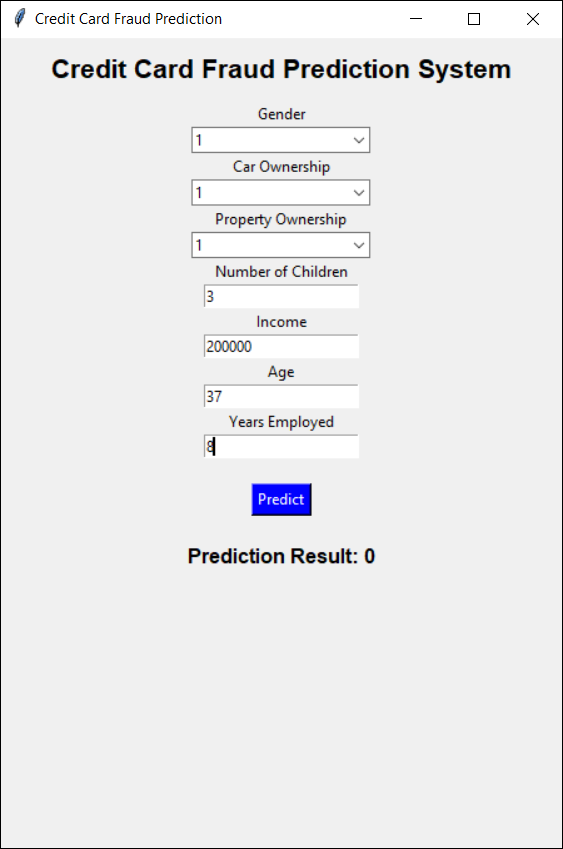
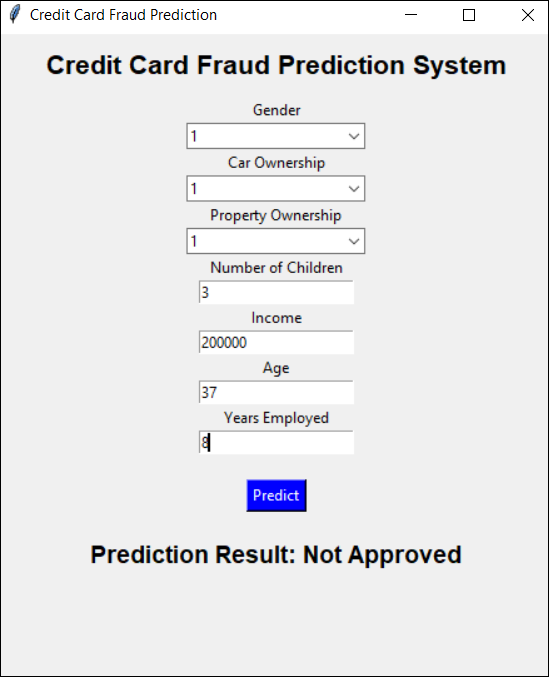
Final GUI prediction update and model improvements

diff --git a/notebooks/model.py b/notebooks/model.py
@@ -1,170 +1,103 @@
-import pandas as pd
+import tkinter as tk
+from tkinter import ttk
 import pickle
-import matplotlib.pyplot as plt
-import seaborn as sns
+import numpy as np
 
-from sklearn.model_selection import train_test_split
-from sklearn.neighbors import KNeighborsClassifier
-from sklearn.naive_bayes import GaussianNB
-from sklearn.preprocessing import LabelEncoder, StandardScaler
+# Load trained model
+model = pickle.load(open("models/model.pkl", "rb"))
 
-from sklearn.metrics import (
-    accuracy_score,
-    precision_score,
-    recall_score,
-    f1_score,
-    confusion_matrix,
-    classification_report
+# Create main window
+root = tk.Tk()
+root.title("Credit Card Fraud Prediction")
+root.geometry("450x650")
+
+# Title
+title = tk.Label(
+    root,
+    text="Credit Card Fraud Prediction System",
+    font=("Arial", 16, "bold")
 )
+title.pack(pady=10)
 
-# =========================
-# LOAD DATASET
-# =========================
-df = pd.read_csv("data/cleaned_data.csv")
+# Gender Dropdown
+tk.Label(root, text="Gender").pack()
+gender = ttk.Combobox(root, values=[0, 1])
+gender.pack()
 
-# Remove unnecessary columns
-df = df.drop(columns=["Unnamed: 0", "ID", "User"])
+# Car Dropdown
+tk.Label(root, text="Car Ownership").pack()
+car = ttk.Combobox(root, values=[0, 1])
+car.pack()
 
-# =========================
-# SELECT FEATURES
-# =========================
-X = df[[
-    "GENDER",
-    "CAR",
-    "REALITY",
-    "NO_OF_CHILD",
-    "INCOME",
-    "AGE",
-    "YEARS_EMPLOYED"
-]]
+# Property Dropdown
+tk.Label(root, text="Property Ownership").pack()
+reality = ttk.Combobox(root, values=[0, 1])
+reality.pack()
 
-# Target variable
-y = df["TARGET"]
+# Children Entry
+tk.Label(root, text="Number of Children").pack()
+children = tk.Entry(root)
+children.pack()
 
-# =========================
-# ENCODE CATEGORICAL DATA
-# =========================
-le_gender = LabelEncoder()
-le_car = LabelEncoder()
-le_reality = LabelEncoder()
+# Income Entry
+tk.Label(root, text="Income").pack()
+income = tk.Entry(root)
+income.pack()
 
-X["GENDER"] = le_gender.fit_transform(X["GENDER"])
-X["CAR"] = le_car.fit_transform(X["CAR"])
-X["REALITY"] = le_reality.fit_transform(X["REALITY"])
+# Age Entry
+tk.Label(root, text="Age").pack()
+age = tk.Entry(root)
+age.pack()
 
-# =========================
-# TRAIN TEST SPLIT
-# =========================
-X_train, X_test, y_train, y_test = train_test_split(
-    X,
-    y,
-    test_size=0.2,
-    random_state=42
+# Years Employed Entry
+tk.Label(root, text="Years Employed").pack()
+years = tk.Entry(root)
+years.pack()
+
+# Prediction Function
+def predict():
+    try:
+        values = [
+            float(gender.get()),
+            float(car.get()),
+            float(reality.get()),
+            float(children.get()),
+            float(income.get()),
+            float(age.get()),
+            float(years.get())
+        ]
+
+        prediction = model.predict([values])
+
+        if prediction[0] == 1:
+            result = "Approved"
+        else:
+            result = "Not Approved"
+
+        result_label.config(
+            text=f"Prediction Result: {result}"
+        )
+
+    except:
+        result_label.config(text="Invalid Input")
+
+# Predict Button
+predict_btn = tk.Button(
+    root,
+    text="Predict",
+    command=predict,
+    bg="blue",
+    fg="white"
 )
+predict_btn.pack(pady=20)
 
-print("Training Data Shape:", X_train.shape)
-print("Testing Data Shape:", X_test.shape)
+# Result Label
+result_label = tk.Label(
+    root,
+    text="",
+    font=("Arial", 14, "bold")
+)
+result_label.pack()
 
-# =========================
-# FEATURE SCALING
-# =========================
-scaler = StandardScaler()
-
-X_train_scaled = scaler.fit_transform(X_train)
-X_test_scaled = scaler.transform(X_test)
-
-# =====================================================
-# KNN MODEL
-# =====================================================
-print("\n========== KNN MODEL ==========")
-
-knn_model = KNeighborsClassifier(n_neighbors=5)
-
-knn_model.fit(X_train_scaled, y_train)
-
-knn_predictions = knn_model.predict(X_test_scaled)
-
-# Metrics
-knn_accuracy = accuracy_score(y_test, knn_predictions)
-knn_precision = precision_score(y_test, knn_predictions)
-knn_recall = recall_score(y_test, knn_predictions)
-knn_f1 = f1_score(y_test, knn_predictions)
-
-print("KNN Accuracy:", knn_accuracy)
-print("KNN Precision:", knn_precision)
-print("KNN Recall:", knn_recall)
-print("KNN F1 Score:", knn_f1)
-
-# Classification Report
-print("\nKNN Classification Report")
-print(classification_report(y_test, knn_predictions))
-
-# Confusion Matrix
-knn_cm = confusion_matrix(y_test, knn_predictions)
-
-plt.figure(figsize=(5,4))
-
-sns.heatmap(knn_cm, annot=True, fmt='d', cmap='Blues')
-
-plt.title("KNN Confusion Matrix")
-plt.xlabel("Predicted")
-plt.ylabel("Actual")
-
-plt.show()
-
-# =====================================================
-# NAIVE BAYES MODEL
-# =====================================================
-print("\n========== NAIVE BAYES MODEL ==========")
-
-nb_model = GaussianNB()
-
-nb_model.fit(X_train_scaled, y_train)
-
-nb_predictions = nb_model.predict(X_test_scaled)
-
-# Metrics
-nb_accuracy = accuracy_score(y_test, nb_predictions)
-nb_precision = precision_score(y_test, nb_predictions)
-nb_recall = recall_score(y_test, nb_predictions)
-nb_f1 = f1_score(y_test, nb_predictions)
-
-print("Naive Bayes Accuracy:", nb_accuracy)
-print("Naive Bayes Precision:", nb_precision)
-print("Naive Bayes Recall:", nb_recall)
-print("Naive Bayes F1 Score:", nb_f1)
-
-# Classification Report
-print("\nNaive Bayes Classification Report")
-print(classification_report(y_test, nb_predictions))
-
-# Confusion Matrix
-nb_cm = confusion_matrix(y_test, nb_predictions)
-
-plt.figure(figsize=(5,4))
-
-sns.heatmap(nb_cm, annot=True, fmt='d', cmap='Greens')
-
-plt.title("Naive Bayes Confusion Matrix")
-plt.xlabel("Predicted")
-plt.ylabel("Actual")
-
-plt.show()
-
-# =====================================================
-# SELECT BEST MODEL
-# =====================================================
-if knn_f1 >= nb_f1:
-    final_model = knn_model
-    print("\nKNN selected as final model")
-else:
-    final_model = nb_model
-    print("\nNaive Bayes selected as final model")
-
-# =====================================================
-# SAVE MODEL
-# =====================================================
-pickle.dump(final_model, open("models/model.pkl", "wb"))
-
-print("\nModel trained successfully!")
-print("model.pkl saved inside models folder")
+# Run Application
+root.mainloop()
